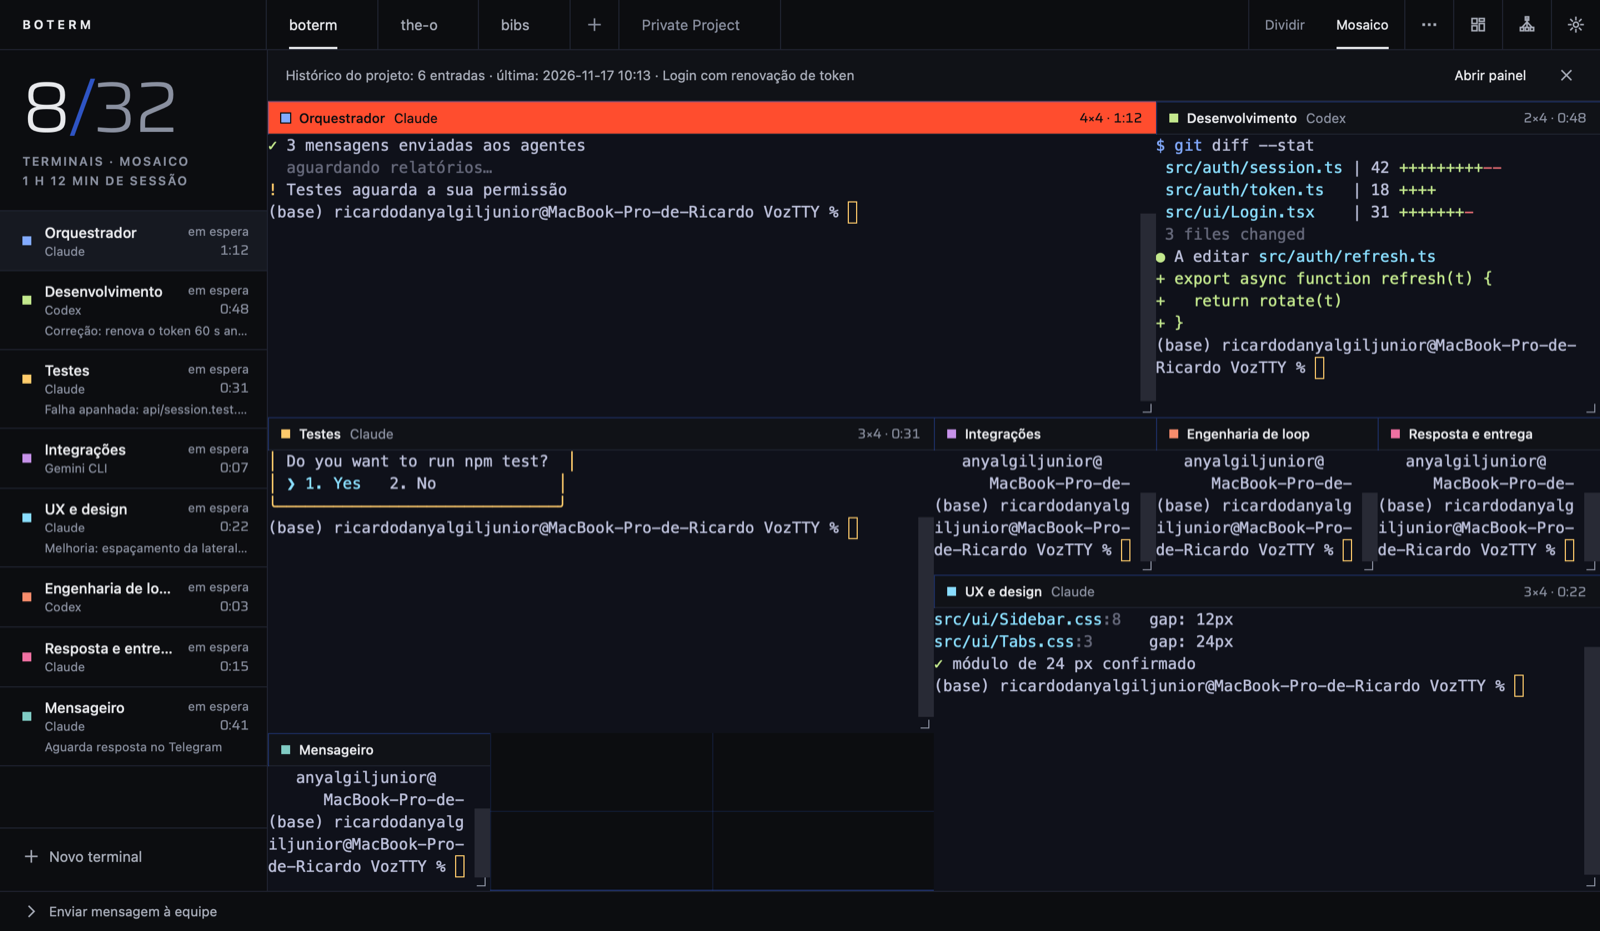
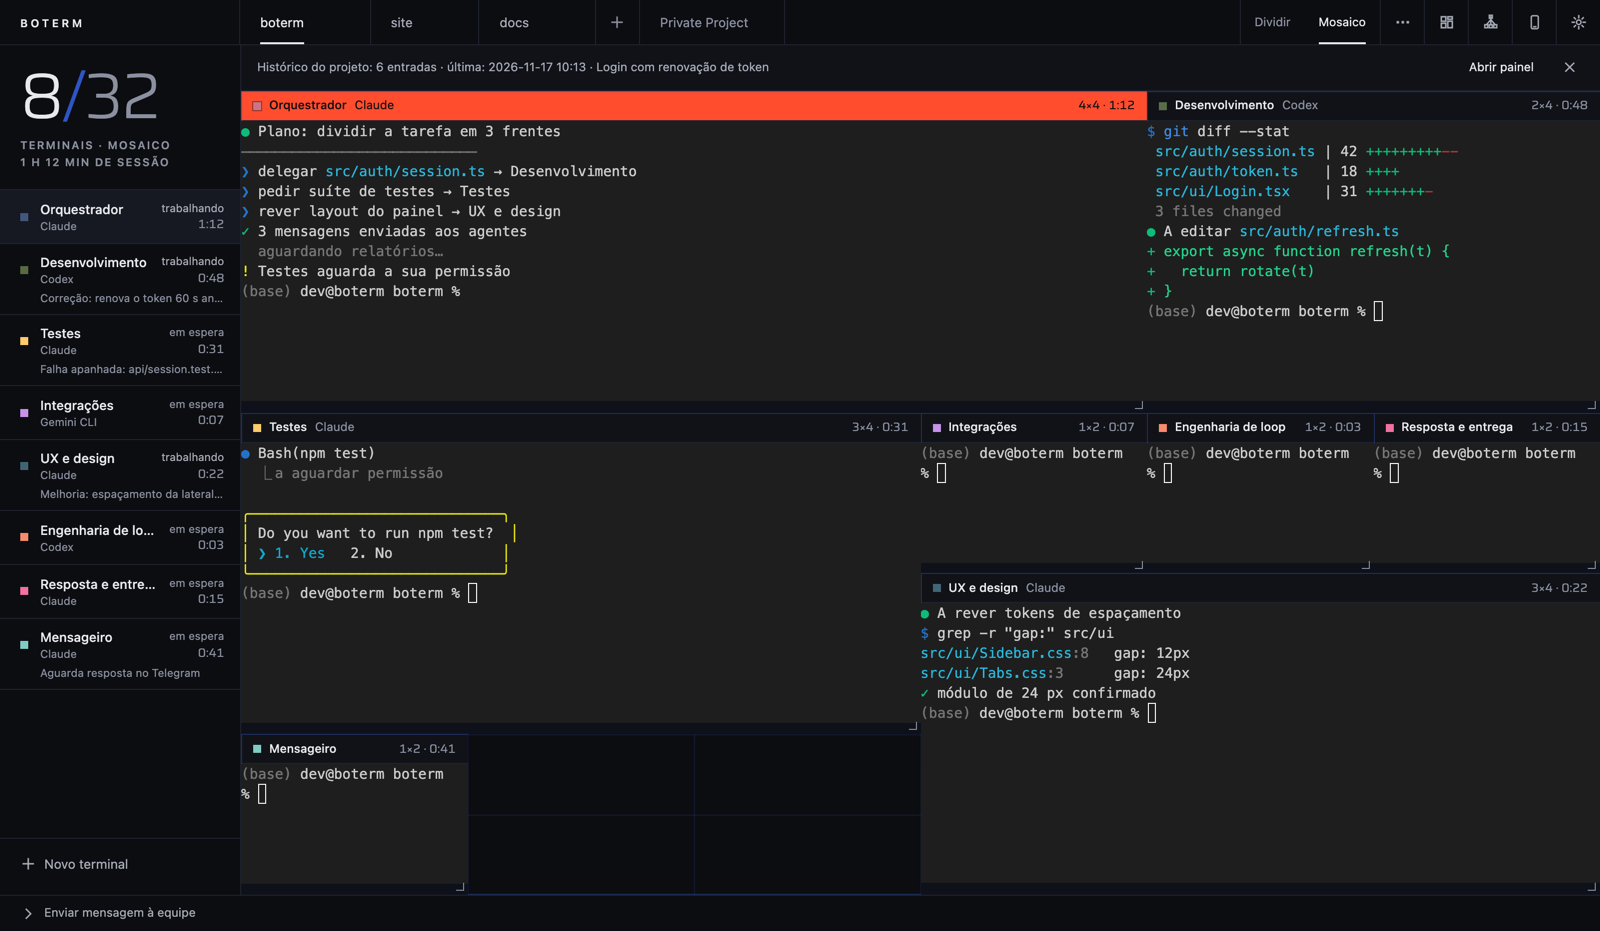
Show no real user or Mac name in screenshots; install without stale bundles
The screenshot fixture now overwrites the shells' first prompt with a fake
dev@boterm prompt and uses neutral project names. terminal/install.sh swaps the
app into /Applications and unregisters every other copy with the same bundle id,
which is what made the Dock show the old icon.

diff --git a/test/terminal-scene.js b/test/terminal-scene.js
@@ -1,7 +1,7 @@
 // Design capture fixture: a realistic eight-agent team. Set SCENE ('mosaic' | 'dashboard') and WORLD before this file.
 const now = Date.now(), first = activeID;
 setWorld(typeof WORLD === 'undefined' ? 'grid' : WORLD);
-renameWorkspace(activeWorkspace, 'boterm'); workspaces.set(crypto.randomUUID(), 'the-o'); workspaces.set(crypto.randomUUID(), 'bibs'); renderNavigation(true);
+renameWorkspace(activeWorkspace, 'boterm'); workspaces.set(crypto.randomUUID(), 'site'); workspaces.set(crypto.randomUUID(), 'docs'); renderNavigation(true);
 const team = [['Orquestrador', 'claude', 'busy', 72], ['Desenvolvimento', 'codex', 'busy', 48], ['Testes', 'claude', 'attention', 31], ['Integrações', 'gemini', 'idle', 7],
   ['UX e design', 'claude', 'busy', 22], ['Engenharia de loop', 'codex', 'idle', 3], ['Resposta e entrega', 'claude', 'idle', 15], ['Mensageiro', 'claude', 'idle', 41]];
 const text = {
@@ -31,7 +31,7 @@ activateSession(ids[0]); mosaic = true; split = false; fitVisible(); renderNavig
 const ev = (session, kind, text, ago) => receiveEvent({id: crypto.randomUUID(), workspace: activeWorkspace, session: ids[session], name: team[session][0], kind, text, time: new Date(now - ago * 60000).toISOString()});
 ev(2, 'test-fail', 'login.test.ts: token expirava antes da renovação', 38); ev(1, 'fix', 'renova o token 60 s antes de expirar', 30); ev(2, 'test-pass', 'login.test.ts e session.test.ts', 26); ev(4, 'improvement', 'espaçamento da lateral no módulo de 24 px', 12); ev(2, 'test-fail', 'api/session.test.ts: 401 sem cabeçalho', 4);
 requestDashboard = () => {}; // the fixture's data stands in for the app's
-receiveDashboard({workspace: activeWorkspace, directory: '/Users/ricardo/Softwares/boterm', usage: {'mcp:github': {calls: 21, seconds: 160}, 'mcp:boterm': {calls: 14, seconds: 52}, 'mcp:playwright': {calls: 3, seconds: 38}},
+receiveDashboard({workspace: activeWorkspace, directory: '/Users/dev/projetos/boterm', usage: {'mcp:github': {calls: 21, seconds: 160}, 'mcp:boterm': {calls: 14, seconds: 52}, 'mcp:playwright': {calls: 3, seconds: 38}},
   events: dashboardData.get(activeWorkspace)?.events, sessions: {[ids[0]]: {Edit: {calls: 2, seconds: 1}, 'mcp:boterm': {calls: 9, seconds: 30}}, [ids[1]]: {Edit: {calls: 14, seconds: 6}, Bash: {calls: 9, seconds: 40}}, [ids[2]]: {Bash: {calls: 6, seconds: 90}}, [ids[4]]: {Edit: {calls: 5, seconds: 2}, 'mcp:github': {calls: 21, seconds: 160}}}},
   {code: {repo: true, branch: 'main', changed: 14, untracked: 2, added: 412, removed: 96, commits: ['a1c9e02 Renova token antes de expirar', '7f3b2d1 Testes de sessão', 'c04e9aa Espaçamento da lateral'],
     files: [{file: 'src/auth/login.ts', added: 120, removed: 30}, {file: 'src/api/session.ts', added: 88, removed: 12}, {file: 'test/login.test.ts', added: 64, removed: 0}, {file: 'src/ui/Sidebar.css', added: 22, removed: 31}, {file: 'src/auth/token.ts', added: 18, removed: 4}]},
@@ -41,5 +41,8 @@ if (typeof SCENE !== 'undefined' && SCENE === 'dashboard') openDashboard();
 updateLiveState();
 // Let the shells finish printing their first prompt, so idle reads as idle.
 await new Promise(r => setTimeout(r, 3500));
+// Then replace whatever the real shells printed: their prompt carries the user and Mac name, which must never be captured.
+const prompt = '\x1b[2m(base)\x1b[0m dev@boterm boterm % ';
+team.forEach(([name], i) => { const t = sessions.get(ids[i]).term; t.reset(); t.write((text[name] || '') + prompt); });
 const waiting = sessions.get(ids[2]); waiting.attention = 'Confirmação solicitada'; waiting.host.classList.add('needs-attention'); renderNavigation();
 return {scene: typeof SCENE === 'undefined' ? 'mosaic' : SCENE, world: document.documentElement.dataset.world};
